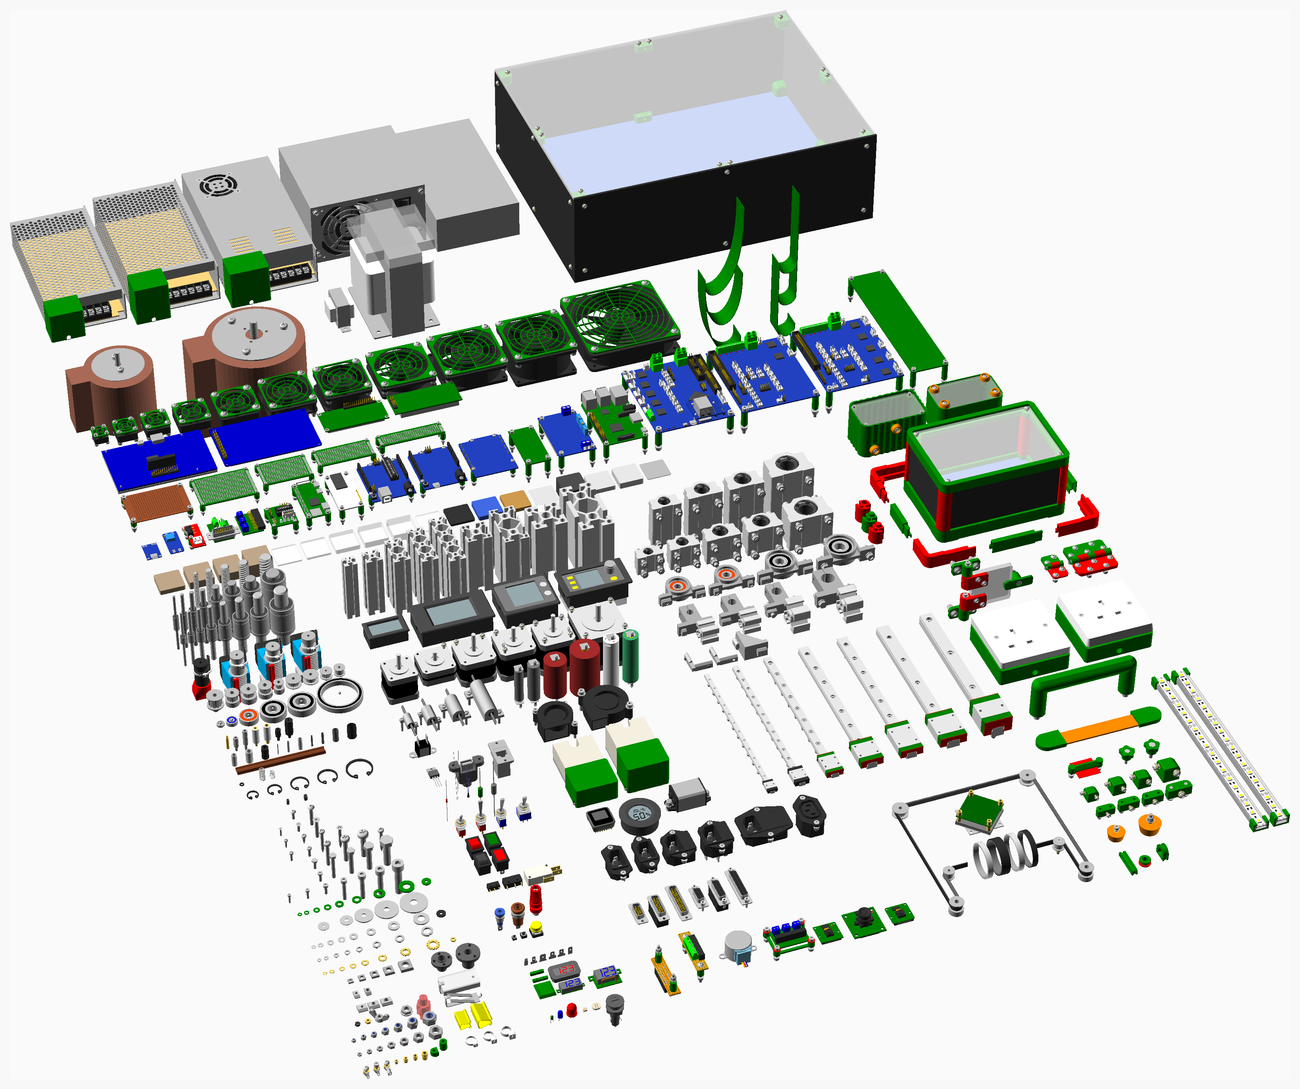
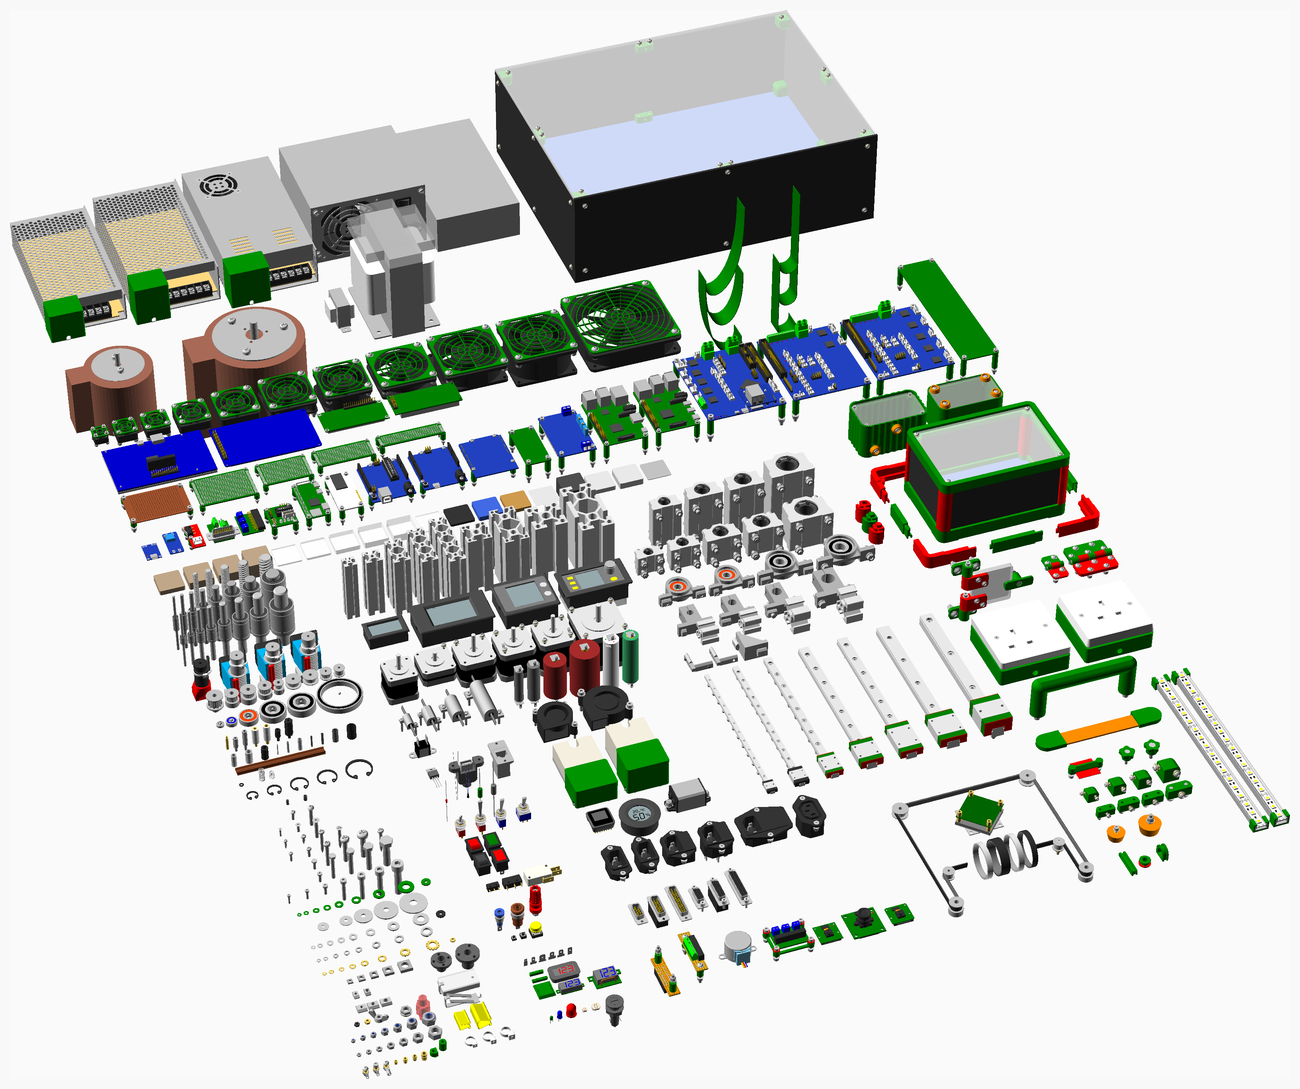
Added USB-C connector, micro hdmi and RPI4.

diff --git a/readme.md b/readme.md
@@ -2140,6 +2140,7 @@ PCBs and perfboard with optional components. The shape can be a rectangle with o
 | ```usb_Ax1(cutout = false)``` | Draw USB type A single socket |
 | ```usb_Ax2(cutout = false)``` | Draw USB type A dual socket |
 | ```usb_B(cutout = false)``` | Draw USB B connector |
+| ```usb_C(cutout = false)``` | Draw USB C connector |
 | ```usb_uA(cutout = false)``` | Draw USB micro A connector |
 
 ![pcb](tests/png/pcb.png)
@@ -2273,6 +2274,7 @@ PCBs and perfboard with optional components. The shape can be a rectangle with o
 | ```usb_Ax1(cutout = false)``` | Draw USB type A single socket |
 | ```usb_Ax2(cutout = false)``` | Draw USB type A dual socket |
 | ```usb_B(cutout = false)``` | Draw USB B connector |
+| ```usb_C(cutout = false)``` | Draw USB C connector |
 | ```usb_uA(cutout = false)``` | Draw USB micro A connector |
 
 ![pcbs](tests/png/pcbs.png)
@@ -2292,11 +2294,11 @@ PCBs and perfboard with optional components. The shape can be a rectangle with o
 |   1 | ```pcb(Keyes5p1)``` |  Keyes5.1 Arduino Uno expansion board |
 |   1 | ```pcb(MT3608)``` |  MT3608 boost converter module |
 |   1 | ```pcb(Melzi)``` |  Melzi electronics |
-|   4 |  |  Micro SD card |
+|   5 |  |  Micro SD card |
 |   1 | ```molex_254(2)``` |  Molex KK header 2 way |
 |   1 | ```molex_254(3)``` |  Molex KK header 3 way |
 |  16 | ```nut(M2_nut, nyloc = true)``` |  Nut M2 x 1.6mm nyloc |
-|  30 | ```nut(M2p5_nut, nyloc = true)``` |  Nut M2.5 x 2.2mm nyloc |
+|  34 | ```nut(M2p5_nut, nyloc = true)``` |  Nut M2.5 x 2.2mm nyloc |
 |  16 | ```nut(M3_nut, nyloc = true)``` |  Nut M3 x 2.4mm nyloc |
 |  12 | ```nut(M4_nut, nyloc = true)``` |  Nut M4 x 3.2mm nyloc |
 |   1 | ```pcb(PI_IO)``` |  PI_IO V2 |
@@ -2309,27 +2311,27 @@ PCBs and perfboard with optional components. The shape can be a rectangle with o
 |   1 | ```pin_socket(2p54header, 13, 2, right_angle = true)``` |  Pin socket 13 x 2 right_angle |
 |   1 | ```pcb(RAMPSEndstop)``` |  RAMPS Endstop Switch |
 |   1 | ```pcb(RPI3)``` |  Raspberry Pi 3 |
+|   1 | ```pcb(RPI4)``` |  Raspberry Pi 4 |
 |   1 | ```pcb(RPI0)``` |  Raspberry Pi Zero |
 |  12 | ```screw(M2_cap_screw, 16)``` |  Screw M2 cap x 16mm |
 |   4 | ```screw(M2_cap_screw, 20)``` |  Screw M2 cap x 20mm |
 |   2 | ```screw(M2p5_cap_screw, 16)``` |  Screw M2.5 cap x 16mm |
 |   4 | ```screw(M2p5_cap_screw, 20)``` |  Screw M2.5 cap x 20mm |
 |   4 | ```screw(M2p5_cap_screw, 25)``` |  Screw M2.5 cap x 25mm |
-|   4 | ```screw(M2p5_cap_screw, 30)``` |  Screw M2.5 cap x 30mm |
+|   8 | ```screw(M2p5_cap_screw, 30)``` |  Screw M2.5 cap x 30mm |
 |   4 | ```screw(M2p5_pan_screw, 20)``` |  Screw M2.5 pan x 20mm |
 |  12 | ```screw(M2p5_pan_screw, 25)``` |  Screw M2.5 pan x 25mm |
 |   4 | ```screw(M3_cap_screw, 16)``` |  Screw M3 cap x 16mm |
 |   8 | ```screw(M3_cap_screw, 30)``` |  Screw M3 cap x 30mm |
 |   4 | ```screw(M3_cap_screw, 35)``` |  Screw M3 cap x 35mm |
-|   4 | ```screw(M4_cap_screw, 30)``` |  Screw M4 cap x 30mm |
-|   8 | ```screw(M4_cap_screw, 35)``` |  Screw M4 cap x 35mm |
+|  12 | ```screw(M4_cap_screw, 35)``` |  Screw M4 cap x 35mm |
 |   1 | ```pcb(TP4056)``` |  TP4056 Li-lon Battery charger module |
 |   3 | ```terminal_35(2)``` |  Terminal block 2 way 3.5mm |
 |   2 | ```green_terminal(gt_2p54, 4)``` |  Terminal block 4 way 0.1" |
 |   1 |  |  USB A to Mini B lead |
 |   1 | ```pcb(WD2002SJ)``` |  WD2002SJ Buck Boost DC-DC converter |
 |  16 | ```washer(M2_washer)``` |  Washer  M2 x 5mm x 0.3mm |
-|  30 | ```washer(M2p5_washer)``` |  Washer  M2.5 x 5.9mm x 0.5mm |
+|  34 | ```washer(M2p5_washer)``` |  Washer  M2.5 x 5.9mm x 0.5mm |
 |  16 | ```washer(M3_washer)``` |  Washer  M3 x 7mm x 0.5mm |
 |  12 | ```washer(M4_washer)``` |  Washer  M4 x 9mm x 0.8mm |
 |   1 | ```pcb(ZC_A0591)``` |  ZC-A0591 ULN2003 driver PCB |
@@ -2348,14 +2350,15 @@ PCBs and perfboard with optional components. The shape can be a rectangle with o
 |   4 | pcb_spacer25140_2.stl |
 |   4 | pcb_spacer25150_2.stl |
 |   4 | pcb_spacer25180.stl |
+|   4 | pcb_spacer25190.stl |
 |   2 | pcb_spacer2570.stl |
 |   4 | pcb_spacer30160.stl |
 |   4 | pcb_spacer30170.stl |
-|   4 | pcb_spacer30220.stl |
+|   4 | pcb_spacer30230.stl |
 |   4 | pcb_spacer3050.stl |
-|   4 | pcb_spacer40190.stl |
 |   4 | pcb_spacer40200.stl |
 |   4 | pcb_spacer40210.stl |
+|   4 | pcb_spacer40220.stl |
 
 
 <a href="#top">Top</a>
